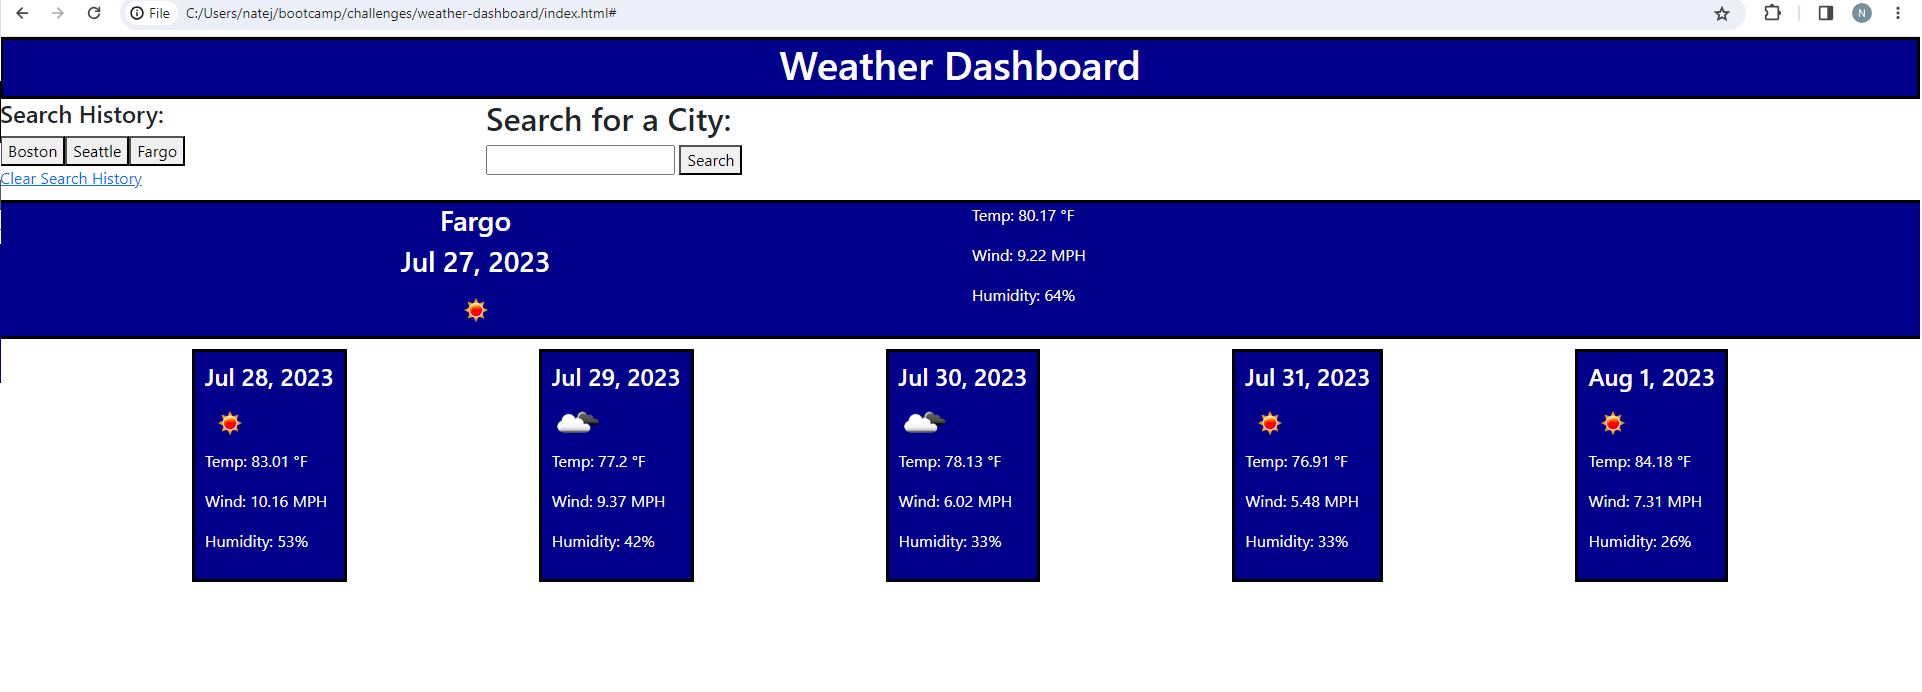
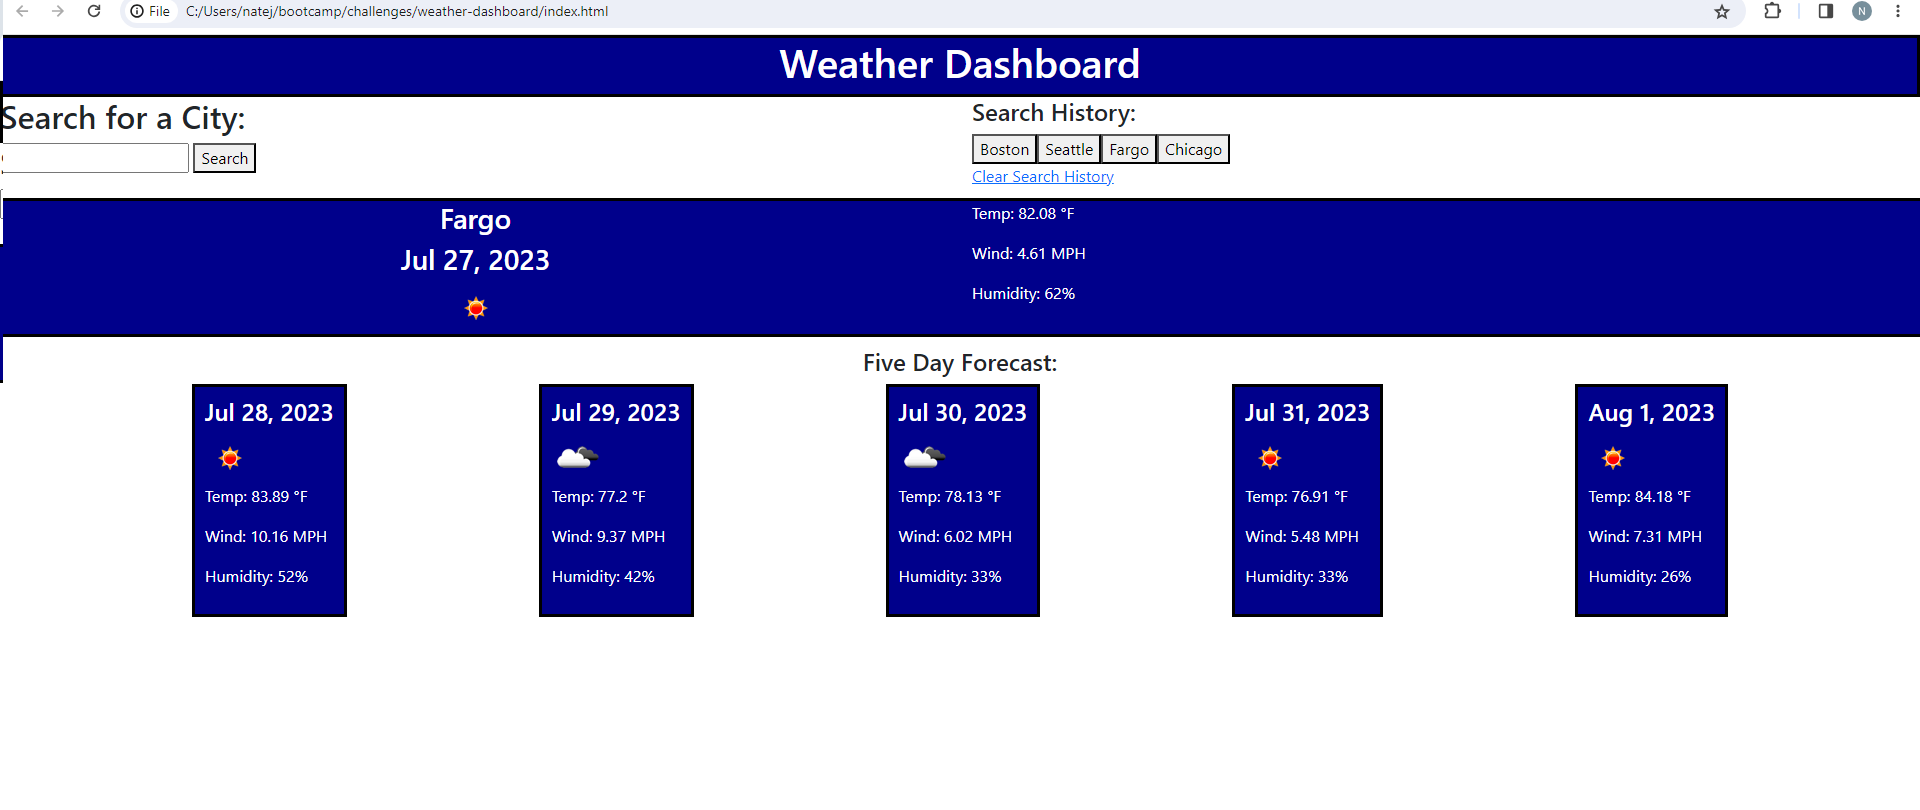
Fixed a few minor alignment bugs, reorganized to improve UI

Changed region(s): [[0.0, 0.0, 1.0, 0.8497], [0.625, 0.6069, 0.7188, 0.8497]]

diff --git a/index.html b/index.html
@@ -23,16 +23,16 @@
     <main>
         <!--Bootstrap classes are used to place elements of UI within the page-->
         <div class= "row">
-            <div class= "col-12 col-md-4 col-lg-3">
+            <div class= "col-12 col-lg-6" id="location-search-container">
+                <h2>Search for a City:</h2>
+                <input id="location-search" />
+                <button id="location-search-button">Search</button>
+            </div>
+            <div class= "col-12 col-lg-6">
                 <h4>Search History:</h4>
                 <div id="search-history">
                 </div>
                 <a href="#" id="clear-search-history">Clear Search History</a>
-            </div>
-            <div class= "col-12 col-md-8 col-lg-9" id="location-search-container">
-                <h2>Search for a City:</h2>
-                <input id="location-search" />
-                <button id="location-search-button">Search</button>
             </div>
         </div>
         <!--These elements are created so the application understands where to populate the current weather data in relation to forecast data-->
